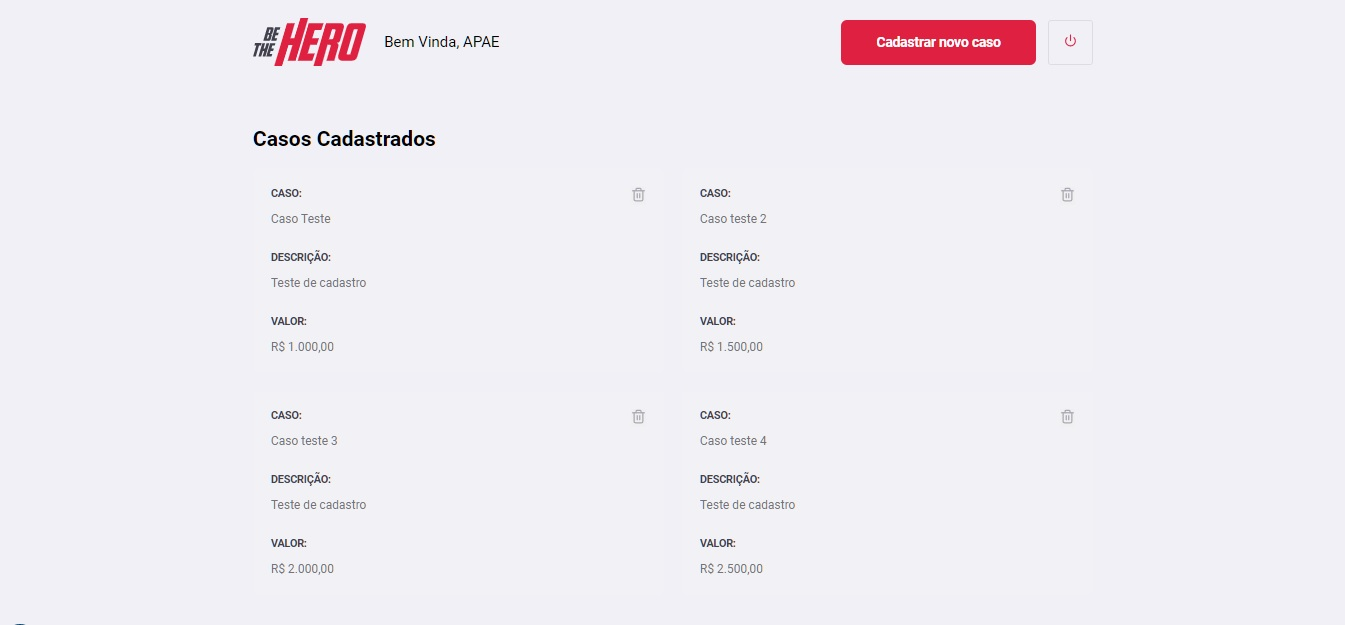
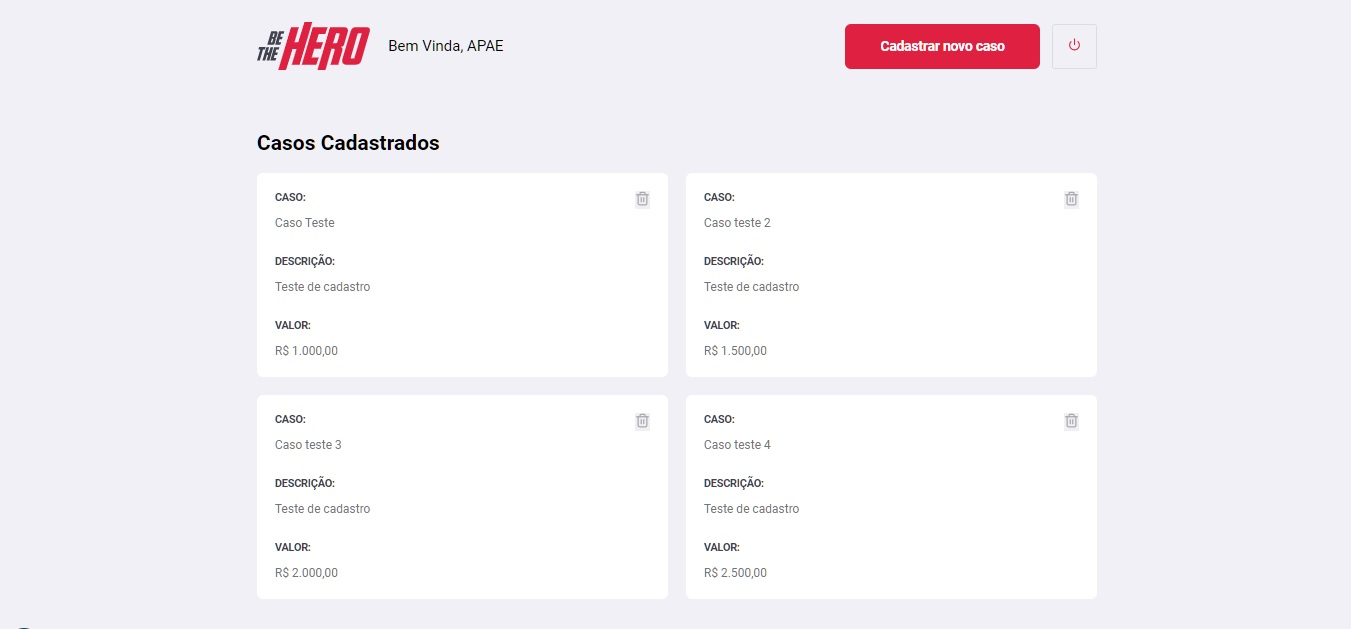
Correção Imagem Profile

diff --git a/frontend/src/pages/Profile/styles.css b/frontend/src/pages/Profile/styles.css
@@ -52,7 +52,7 @@
 }
 
 .profile-container ul li {
-  background: #fff2;
+  background:#fff;
   padding: 24px;
   border-radius: 8px;
   position: relative;
